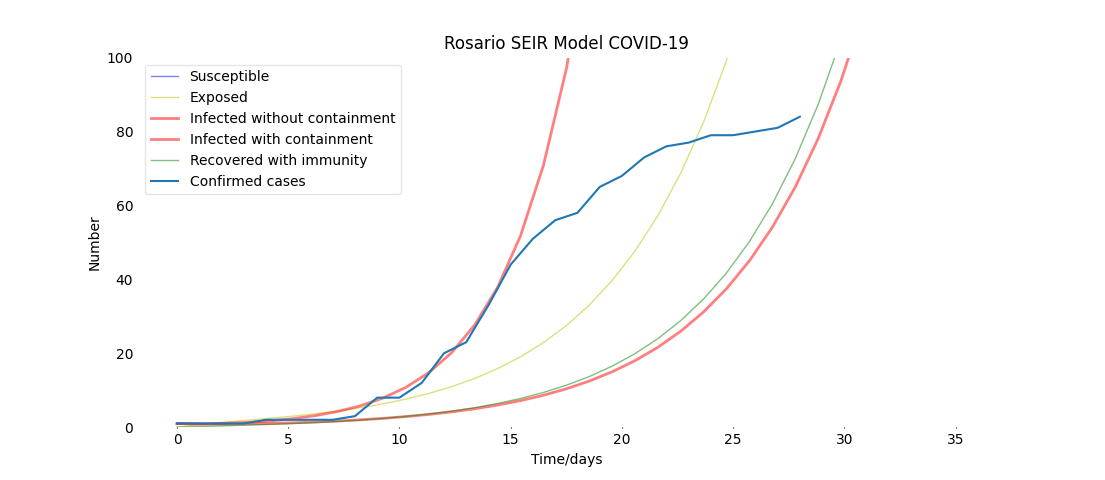
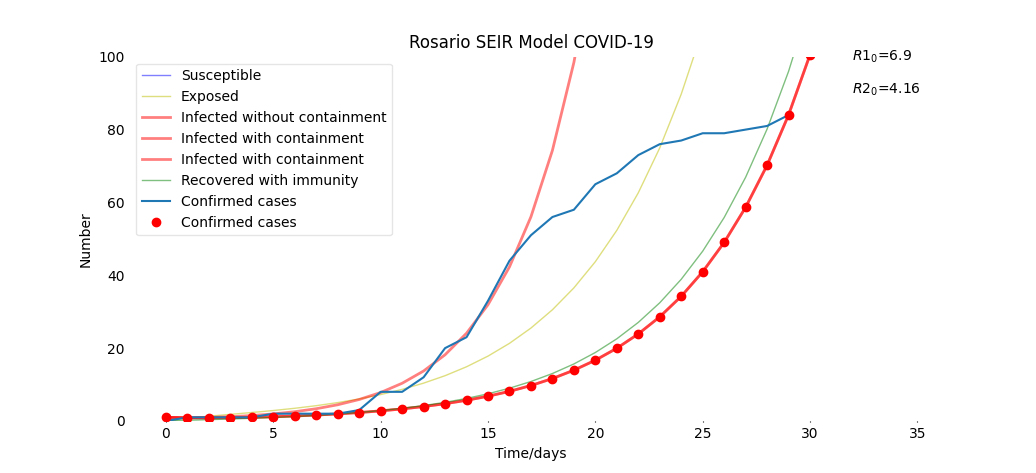
Interpolation feeting

diff --git a/SEIR-model/SEIR-model.py b/SEIR-model/SEIR-model.py
@@ -16,15 +16,15 @@ y_axis = 1000000
 x_axis = 120 
 
 # Zoom
-y_axis = 100 
-x_axis = 35 
+#y_axis = 100 
+#x_axis = 35 
 
 # Model parameters
 N = 992323
-beta = 1.58  
+beta = 1.38  
 gamma = 1./5
 sigma = 1./7
-
+b1 = beta
 # Initial conditions.
 I0, R0, E0 = 1, 0, 0
 S0 = N - I0 - R0 - E0
@@ -48,7 +48,7 @@ y0 = S0, E0, I0, R0
 #x = [1, 1, 1, 1, 1, 2, 2, 2, 2, 8, 8, 11, 13, 21, 24, 33, 48, 55, 62, 65, 72,,,,,,,93]
 
 # Real data Municipo de Rosario
-x = [1, 1, 1, 1, 2, 2, 2, 2, 3, 8, 8, 12, 20, 23, 33, 44, 51, 56, 58, 65, 68, 73, 76, 77, 79, 79, 80, 81, 84]
+x = [0, 1, 1, 1, 1, 2, 2, 2, 2, 3, 8, 8, 12, 20, 23, 33, 44, 51, 56, 58, 65, 68, 73, 76, 77, 79, 79, 80, 81, 84]
 
 # Integrate the SEIR equations over period 1  
 
@@ -58,8 +58,8 @@ S1, E1, I1, R1 = ret.T
 # Finding beta at the last point
 
 # beta from 0.8 to 1.2 + delta in 20 steps
-step = 20
-delta = 1 
+step = 20000 
+delta = 2 
 beta = 0.8
 
 l = len(x)
@@ -67,27 +67,39 @@ for i in range(step):
    b =  beta + delta  * (i + 1) / step
    ret = odeint(deriv, y0, t, args=(N, b, gamma, sigma))
    S2, E2, I2, R2 = ret.T
-   if x[l-1] > I2[l-1]:
+   #if x[l-1] > I2[l]:
+   print(l-1, I2[l-1], x[l-1], sep='\t')    	
+   if I2[l-1] >= x[l-1]:
       beta = b
       break 
+b2 = beta
 
 # Print predictions
 for i in range(x_axis):
     initd = '2020-03-14'
     date = datetime.strptime(initd, "%Y-%m-%d")
     d = date + timedelta(days=i)
-    print(i,str(d.strftime("%Y-%m-%d")), math.floor(I1[i]), sep='\t')
+    print(i, str(d.strftime("%Y-%m-%d")), math.floor(I1[i]), sep='\t')
+
+# R0 interpolation
+ro1=str(round(b1/gamma, 2))
+ro2=str(round(b2/gamma, 2))
 
 # Plot the data curves: S(t), E(t), I(t) and R(t)
 fig = plt.figure(facecolor='w')
 ax = fig.add_subplot(111,  axisbelow=True)
 ax.set_title('Rosario SEIR Model COVID-19')
-ax.plot(t, S2, 'b', alpha=0.5, lw=1, label='Susceptible')
-ax.plot(t, E2, 'y', alpha=0.5, lw=1, label='Exposed')
-ax.plot(t, I1, 'r', alpha=0.5, lw=2, label='Infected without containment')
-ax.plot(t, I2, 'r', alpha=0.5, lw=2, label='Infected with containment')
-ax.plot(t, R2, 'g', alpha=0.5, lw=1, label='Recovered with immunity')
-ax.plot(x, '-', label='Confirmed cases')
+ax.plot( S2, 'b', alpha=0.5, lw=1, label='Susceptible')
+ax.plot( E2, 'y', alpha=0.5, lw=1, label='Exposed')
+ax.plot( I1, 'r', alpha=0.5, lw=2, label='Infected without containment')
+ax.plot( I2, 'r', alpha=0.5, lw=2, label='Infected with containment')
+ax.plot( I2, 'r', alpha=0.5, lw=2, label='Infected with containment')
+ax.plot( R2, 'g', alpha=0.5, lw=1, label='Recovered with immunity')
+ax.plot( x, '-', label='Confirmed cases')
+#ax.plot( I2, 'o', color='red',label='Confirmed cases')
+
+ax.annotate("$R1_{0}$="+ ro1, xy=(0.9,0.99),xycoords='axes fraction', fontsize=10)
+ax.annotate("$R2_{0}$="+ ro2, xy=(0.9,0.9),xycoords='axes fraction', fontsize=10)
 ax.set_xlabel('Time/days')
 ax.set_ylabel('Number')
 ax.set_ylim(0,y_axis)

diff --git a/README.md b/README.md
@@ -8,7 +8,7 @@
 Evolution of COVID 19 - Official reports
 Rosario, Santa Fe, Argentina
 
-![SEIR Model COVID-19](/img/seir-covid19-11-04-20.png)
+![SEIR Model COVID-19](/img/seir-covid19-12-04-20.png)
 
 ## Data COVID-19
 
